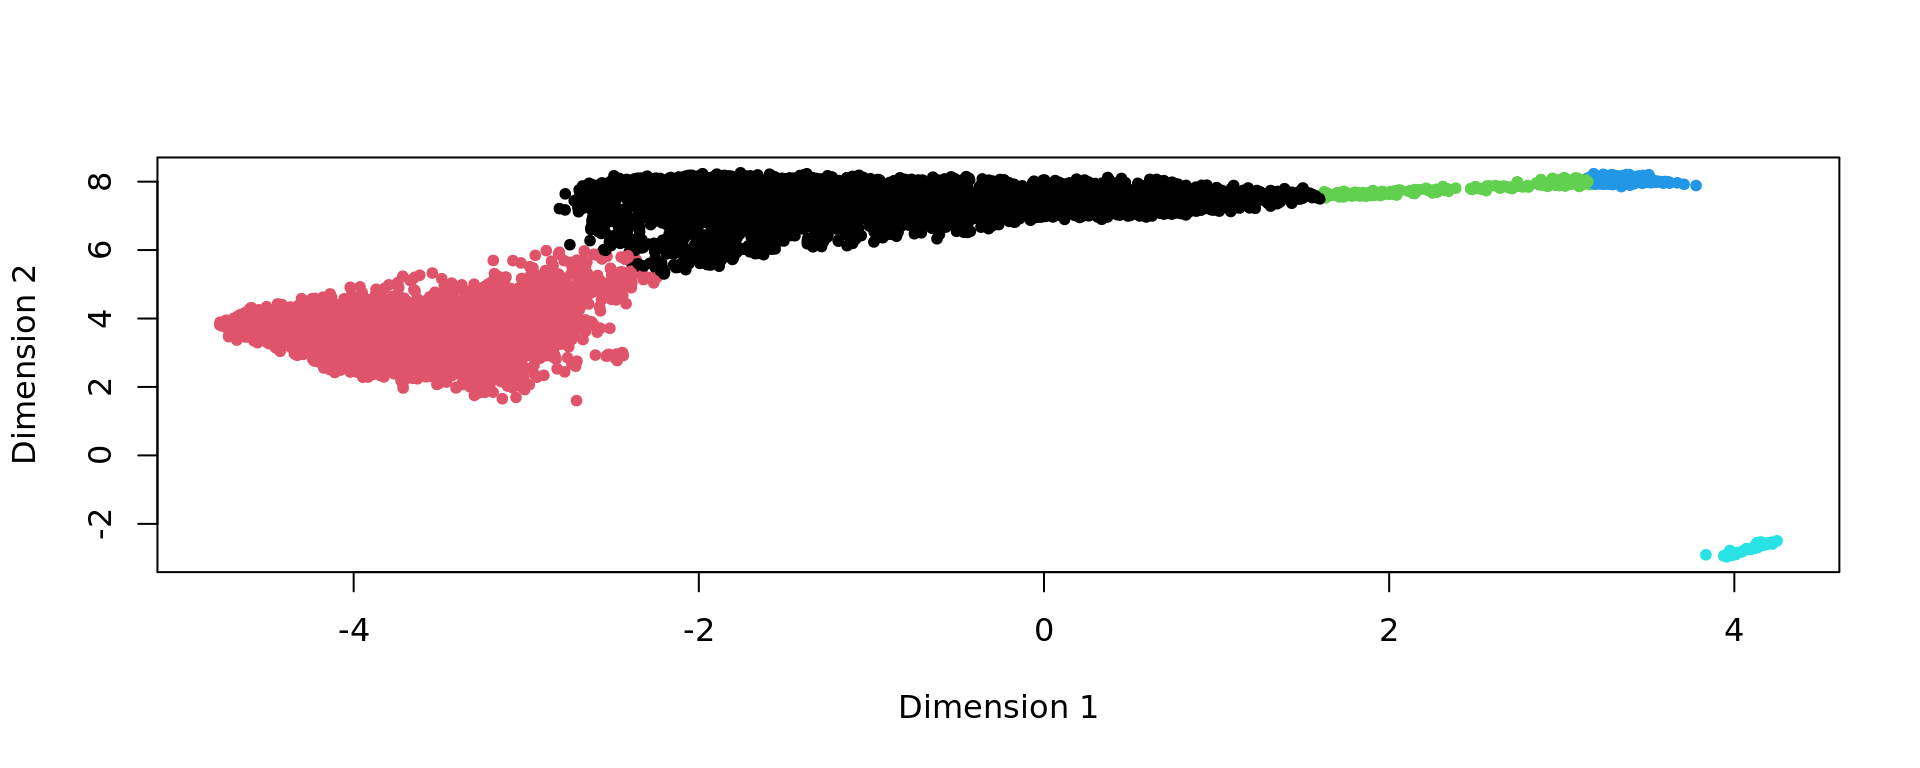
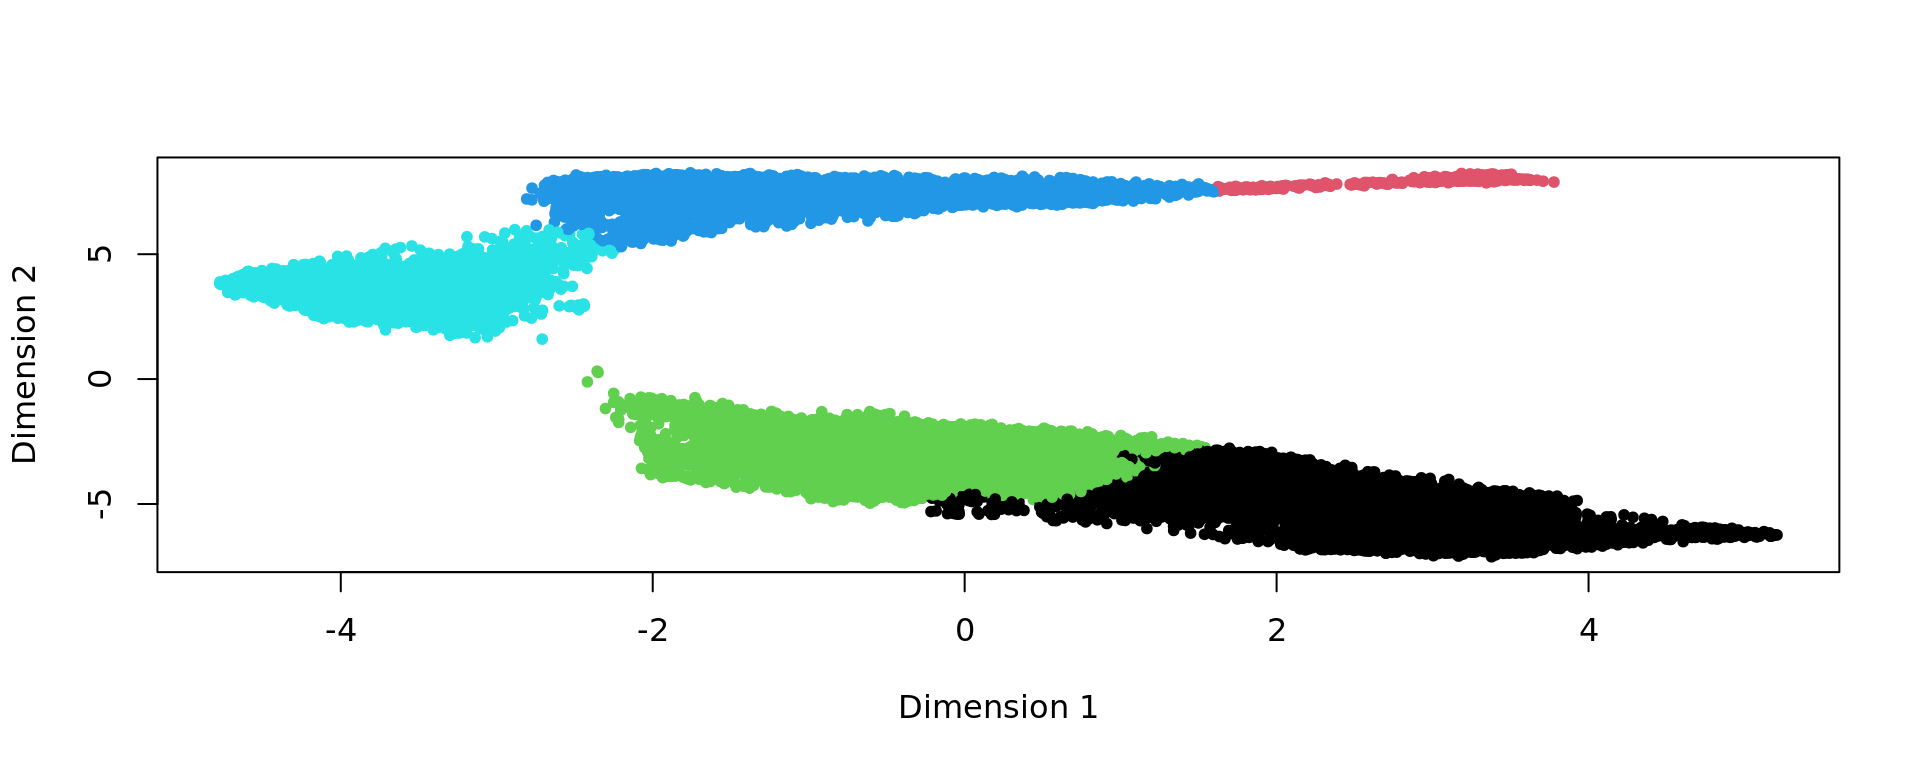
Build site.

diff --git a/docs/DLPFC.html b/docs/DLPFC.html
@@ -562,15 +562,15 @@ project makes it easier to run your code on other machines.</p>
 <div class="panel panel-default">
 <div class="panel-heading">
 <p class="panel-title">
-<a data-toggle="collapse" data-parent="#workflowr-checks" href="#strongRepositoryversionstrongahrefhttpsgithubcomtkcacciaKODAMAAnalysistreefa049dea1943554383690dd66e78cf06e3ff912ctargetblankfa049dea">
+<a data-toggle="collapse" data-parent="#workflowr-checks" href="#strongRepositoryversionstrongahrefhttpsgithubcomtkcacciaKODAMAAnalysistreeeaad1a02a20fd111e43c1888bb87e1181c208687targetblankeaad1a0a">
 <span class="glyphicon glyphicon-ok text-success"
 aria-hidden="true"></span> <strong>Repository version:</strong>
-<a href="https://github.com/tkcaccia/KODAMA-Analysis/tree/fa049dea1943554383690dd66e78cf06e3ff912c" target="_blank">fa049de</a>
+<a href="https://github.com/tkcaccia/KODAMA-Analysis/tree/eaad1a02a20fd111e43c1888bb87e1181c208687" target="_blank">eaad1a0</a>
 </a>
 </p>
 </div>
 <div
[2 lines of base64/hex data omitted]
 class="panel-collapse collapse">
 <div class="panel-body">
 <p>
@@ -580,7 +580,7 @@ reproducibility.
 </p>
 <p>
 The results in this page were generated with repository version
-<a href="https://github.com/tkcaccia/KODAMA-Analysis/tree/fa049dea1943554383690dd66e78cf06e3ff912c" target="_blank">fa049de</a>.
+<a href="https://github.com/tkcaccia/KODAMA-Analysis/tree/eaad1a02a20fd111e43c1888bb87e1181c208687" target="_blank">eaad1a0</a>.
 See the <em>Past versions</em> tab to see a history of the changes made
 to the R Markdown and HTML files.
 </p>
@@ -669,6 +669,40 @@ Message
 </tr>
 </thead>
 <tbody>
+<tr>
+<td>
+Rmd
+</td>
+<td>
+<a href="https://github.com/tkcaccia/KODAMA-Analysis/blob/eaad1a02a20fd111e43c1888bb87e1181c208687/analysis/DLPFC.Rmd" target="_blank">eaad1a0</a>
+</td>
+<td>
+Stefano Cacciatore
+</td>
+<td>
+2024-10-11
+</td>
+<td>
+Start my new project
+</td>
+</tr>
+<tr>
+<td>
+html
+</td>
+<td>
+<a href="https://rawcdn.githack.com/tkcaccia/KODAMA-Analysis/c9d54eec14966990195df616e6151496bfb3cc5d/docs/DLPFC.html" target="_blank">c9d54ee</a>
+</td>
+<td>
+Stefano Cacciatore
+</td>
+<td>
+2024-10-11
+</td>
+<td>
+Build site.
+</td>
+</tr>
 <tr>
 <td>
 Rmd
@@ -1320,7 +1354,7 @@ Stefano Cacciatore
 </table>
 </div>
 </div>
-<pre class="r"><code>selFB=clu!=2
+<pre class="r"><code>selFB=clu!=3
 
   kk_UMAP=kk_UMAP[selFB,]
   labels=labels[selFB]
@@ -1357,6 +1391,17 @@ Date
 <tbody>
 <tr>
 <td>
+<a href="https://github.com/tkcaccia/KODAMA-Analysis/blob/c9d54eec14966990195df616e6151496bfb3cc5d/docs/figure/DLPFC.Rmd/unnamed-chunk-9-2.png" target="_blank">c9d54ee</a>
+</td>
+<td>
+Stefano Cacciatore
+</td>
+<td>
+2024-10-11
+</td>
+</tr>
+<tr>
+<td>
 <a href="https://github.com/tkcaccia/KODAMA-Analysis/blob/1352d911e77a96a9c1216f1473ee5d13bc6bb3b4/docs/figure/DLPFC.Rmd/unnamed-chunk-9-2.png" target="_blank">1352d91</a>
 </td>
 <td>
@@ -1380,10 +1425,10 @@ for(j in u){
   sel=samples==j
   print(mclust::adjustedRandIndex(labels[sel],ref[sel]))
 }</code></pre>
-<pre><code>[1] 0.5320973
-[1] 0.5142898
-[1] 0.6192588
-[1] 0.6504178</code></pre>
+<pre><code>[1] 0.6025143
+[1] 0.5690666
+[1] 0.5594779
+[1] 0.5627897</code></pre>
 <pre class="r"><code>      ###########
       
     
@@ -1414,6 +1459,17 @@ Date
 </tr>
 </thead>
 <tbody>
+<tr>
+<td>
+<a href="https://github.com/tkcaccia/KODAMA-Analysis/blob/c9d54eec14966990195df616e6151496bfb3cc5d/docs/figure/DLPFC.Rmd/unnamed-chunk-9-3.png" target="_blank">c9d54ee</a>
+</td>
+<td>
+Stefano Cacciatore
+</td>
+<td>
+2024-10-11
+</td>
+</tr>
 <tr>
 <td>
 <a href="https://github.com/tkcaccia/KODAMA-Analysis/blob/1352d911e77a96a9c1216f1473ee5d13bc6bb3b4/docs/figure/DLPFC.Rmd/unnamed-chunk-9-3.png" target="_blank">1352d91</a>
@@ -1497,6 +1553,17 @@ Date
 </tr>
 </thead>
 <tbody>
+<tr>
+<td>
+<a href="https://github.com/tkcaccia/KODAMA-Analysis/blob/c9d54eec14966990195df616e6151496bfb3cc5d/docs/figure/DLPFC.Rmd/unnamed-chunk-10-1.png" target="_blank">c9d54ee</a>
+</td>
+<td>
+Stefano Cacciatore
+</td>
+<td>
+2024-10-11
+</td>
+</tr>
 <tr>
 <td>
 <a href="https://github.com/tkcaccia/KODAMA-Analysis/blob/1352d911e77a96a9c1216f1473ee5d13bc6bb3b4/docs/figure/DLPFC.Rmd/unnamed-chunk-10-1.png" target="_blank">1352d91</a>
@@ -1600,6 +1667,17 @@ Date
 <tbody>
 <tr>
 <td>
+<a href="https://github.com/tkcaccia/KODAMA-Analysis/blob/c9d54eec14966990195df616e6151496bfb3cc5d/docs/figure/DLPFC.Rmd/unnamed-chunk-11-1.png" target="_blank">c9d54ee</a>
+</td>
+<td>
+Stefano Cacciatore
+</td>
+<td>
+2024-10-11
+</td>
+</tr>
+<tr>
+<td>
 <a href="https://github.com/tkcaccia/KODAMA-Analysis/blob/1352d911e77a96a9c1216f1473ee5d13bc6bb3b4/docs/figure/DLPFC.Rmd/unnamed-chunk-11-1.png" target="_blank">1352d91</a>
 </td>
 <td>
@@ -1673,6 +1751,17 @@ Date
 <tbody>
 <tr>
 <td>
+<a href="https://github.com/tkcaccia/KODAMA-Analysis/blob/c9d54eec14966990195df616e6151496bfb3cc5d/docs/figure/DLPFC.Rmd/unnamed-chunk-12-1.png" target="_blank">c9d54ee</a>
+</td>
+<td>
+Stefano Cacciatore
+</td>
+<td>
+2024-10-11
+</td>
+</tr>
+<tr>
+<td>
 <a href="https://github.com/tkcaccia/KODAMA-Analysis/blob/1352d911e77a96a9c1216f1473ee5d13bc6bb3b4/docs/figure/DLPFC.Rmd/unnamed-chunk-12-1.png" target="_blank">1352d91</a>
 </td>
 <td>
@@ -1730,10 +1819,10 @@ tkcaccia
           
             print(mclust::adjustedRandIndex(labels[sel],ref[sel]))
         }</code></pre>
-<pre><code>[1] 0.4298425
-[1] 0.4721584
-[1] 0.4229997
-[1] 0.412173</code></pre>
+<pre><code>[1] 0.451793
+[1] 0.5006291
+[1] 0.4551902
+[1] 0.392062</code></pre>
 <pre class="r"><code>        ###########
 
           g &lt;- bluster::makeSNNGraph(as.matrix(kk_UMAP), k = graph)
@@ -1750,10 +1839,10 @@ tkcaccia
             sel=samples==j
             print(mclust::adjustedRandIndex(labels[sel],ref[sel]))
           }</code></pre>
-<pre><code>[1] 0.4298425
-[1] 0.4721584
-[1] 0.4229997
-[1] 0.412173</code></pre>
+<pre><code>[1] 0.451793
+[1] 0.5006291
+[1] 0.4551902
+[1] 0.392062</code></pre>
 <pre class="r"><code>      ###########
       
     
@@ -1784,6 +1873,17 @@ Date
 </tr>
 </thead>
 <tbody>
+<tr>
+<td>
+<a href="https://github.com/tkcaccia/KODAMA-Analysis/blob/c9d54eec14966990195df616e6151496bfb3cc5d/docs/figure/DLPFC.Rmd/unnamed-chunk-12-2.png" target="_blank">c9d54ee</a>
+</td>
+<td>
+Stefano Cacciatore
+</td>
+<td>
+2024-10-11
+</td>
+</tr>
 <tr>
 <td>
 <a href="https://github.com/tkcaccia/KODAMA-Analysis/blob/1352d911e77a96a9c1216f1473ee5d13bc6bb3b4/docs/figure/DLPFC.Rmd/unnamed-chunk-12-2.png" target="_blank">1352d91</a>
